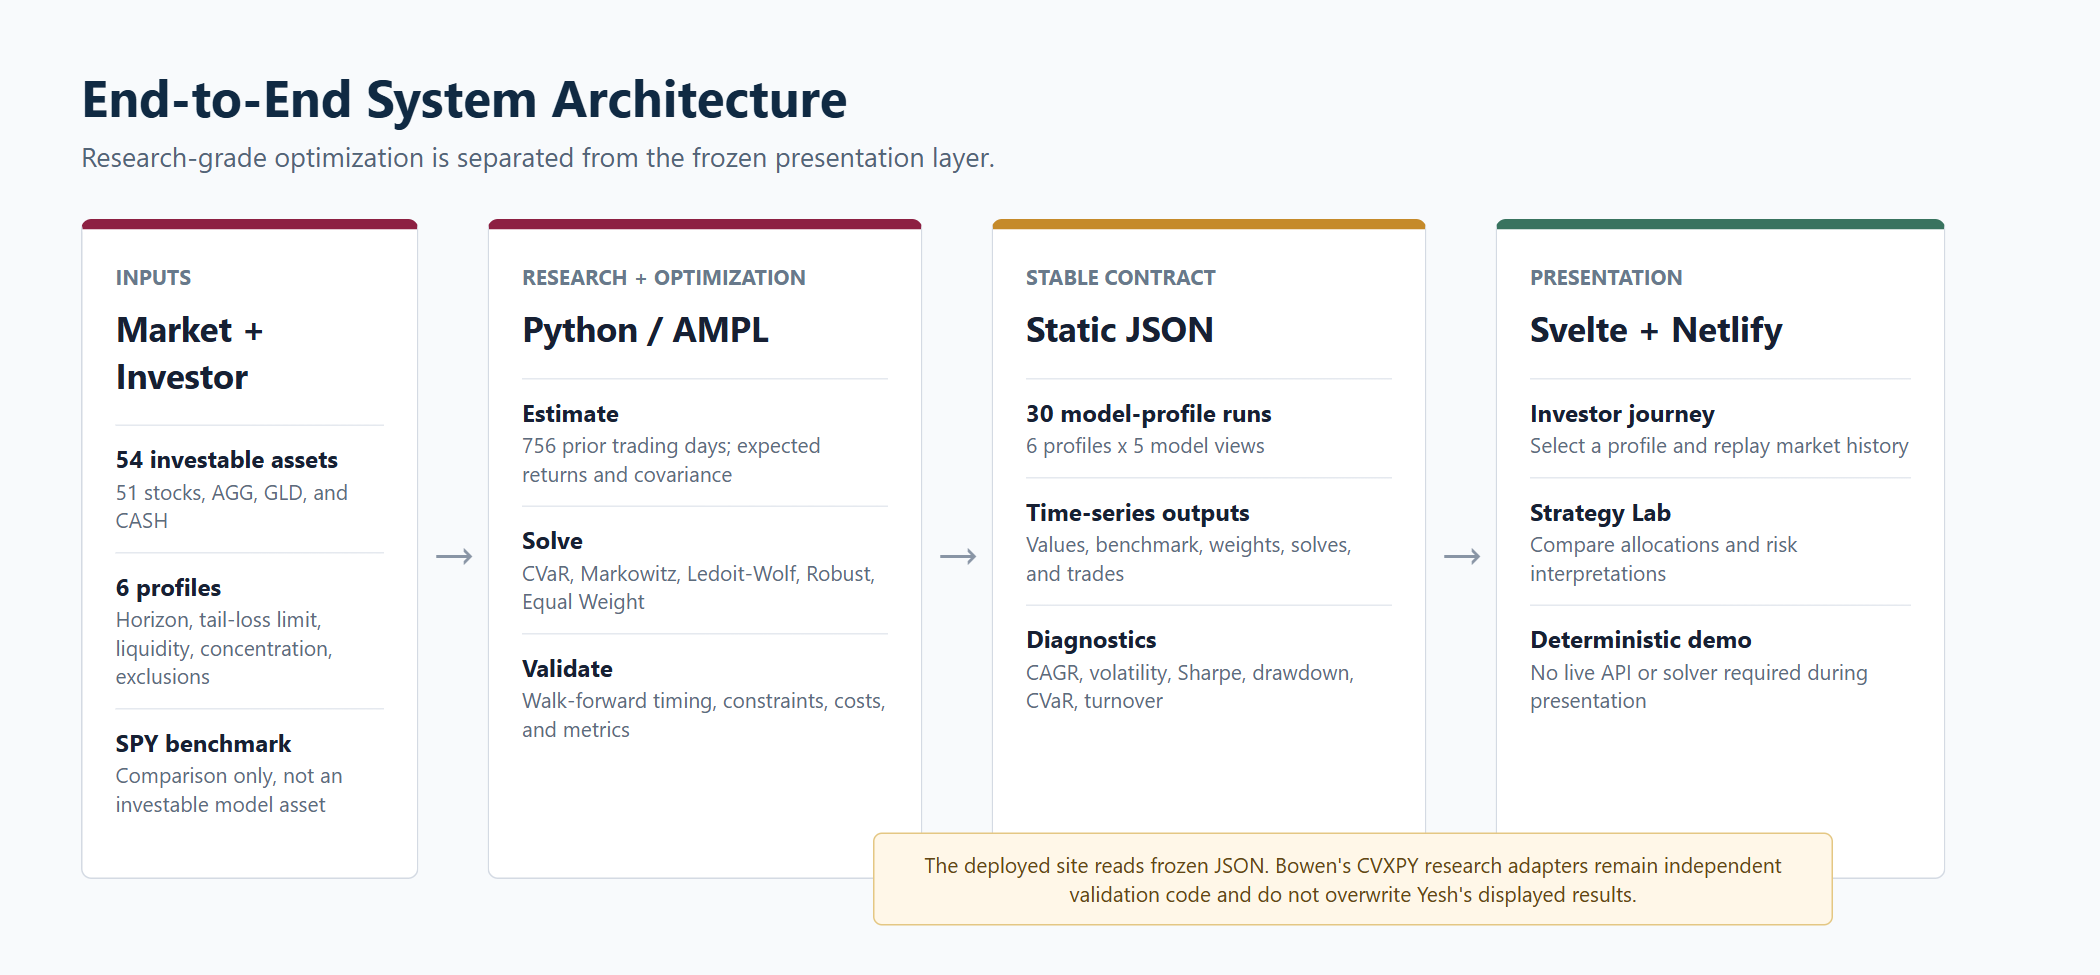
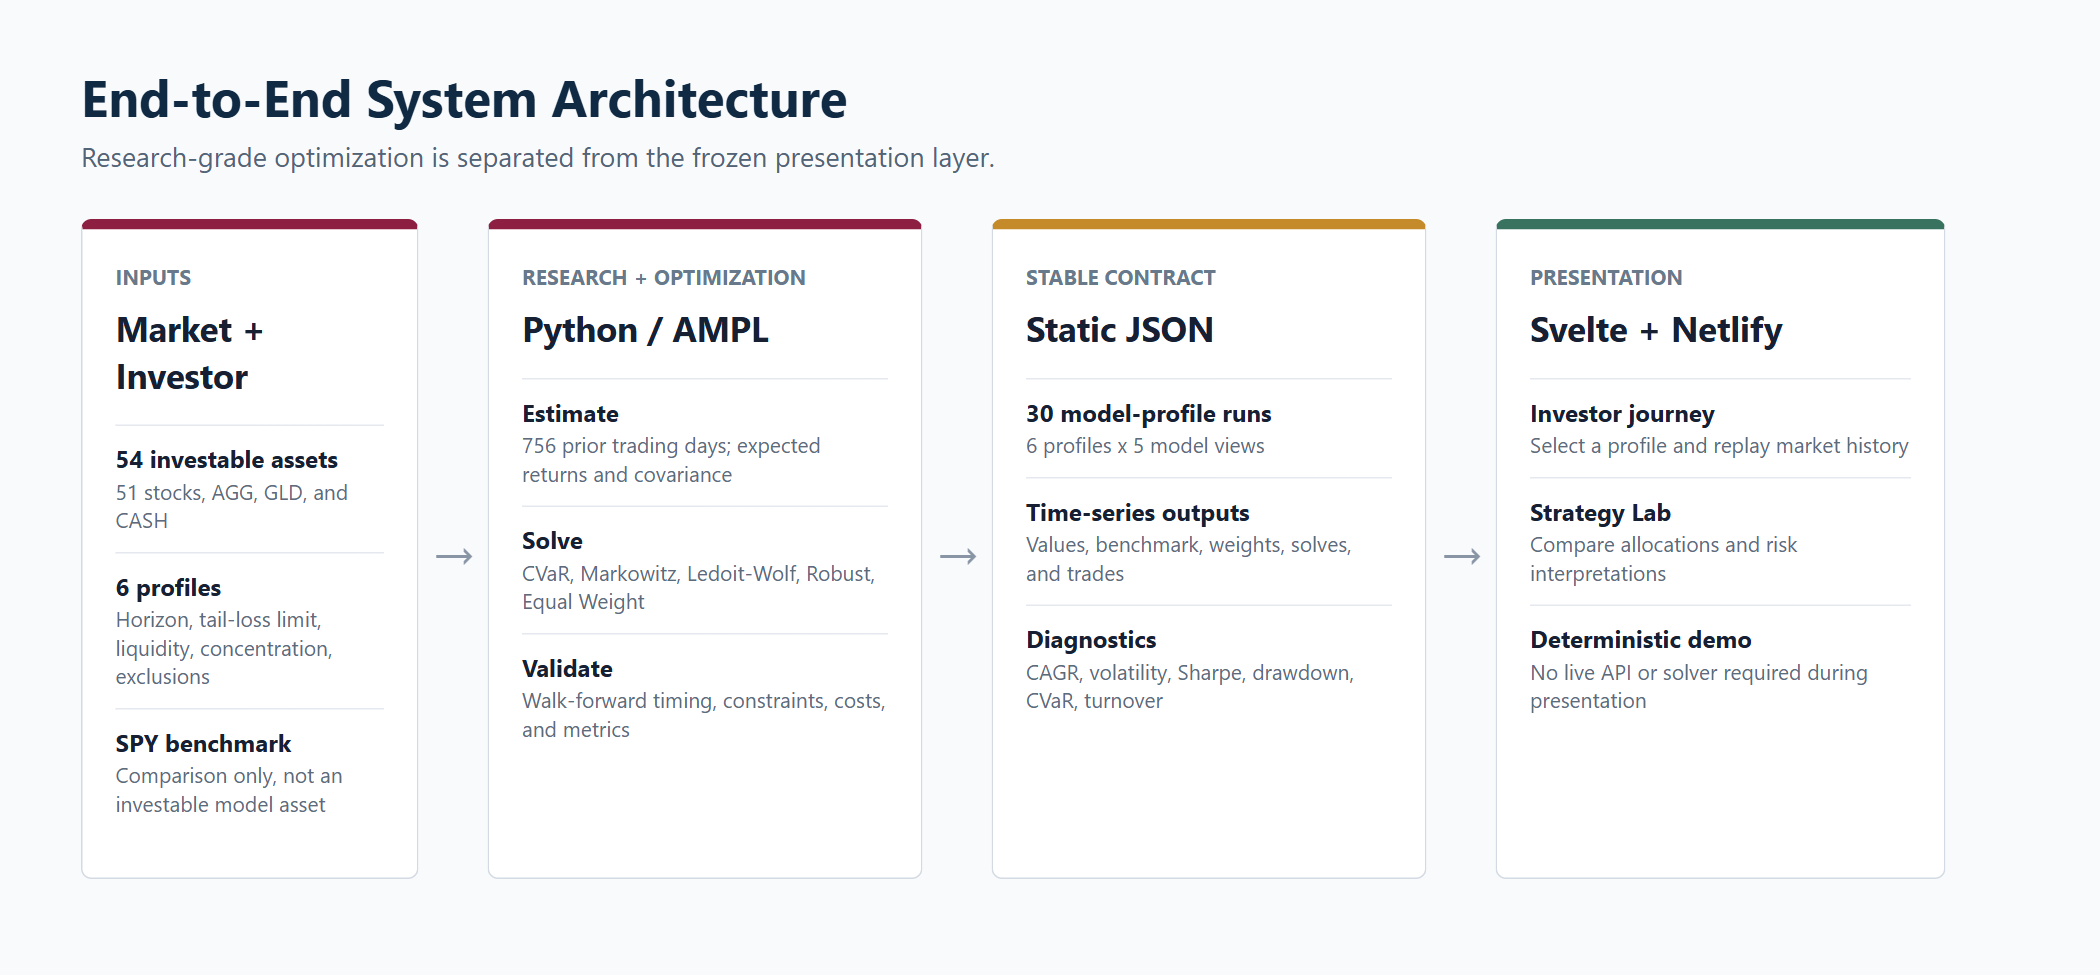
Polish public documentation and architecture figure

Changed region(s): [[0.4333, 0.8615, 0.8357, 0.9538]]

diff --git a/README.md b/README.md
@@ -24,9 +24,9 @@ optimization models so that the trade-offs are comparable.
 
 This repository contains two deliberately separated layers:
 
-- **Research layer (`implementation/`)**: Bowen's reusable Python backtester,
+- **Research layer (`implementation/`)**: a reusable Python backtester,
   CVXPY model adapters, profile constraints, and tests.
-- **Presentation layer (`src/portfolio/`, `model/`, `site/`)**: Yesh's frozen
+- **Presentation layer (`src/portfolio/`, `model/`, `site/`)**: the frozen
   AMPL/Svelte pipeline and the static JSON used by the final Netlify demo.
 
 The presentation layer is the source of truth for the published figures. The
@@ -36,7 +36,7 @@ reproducible; they do not overwrite the website's precomputed results.
 ## Final Demo and Poster
 
 - Live demo: [adaptive-portfolio-optimization.netlify.app](https://adaptive-portfolio-optimization.netlify.app/)
-- Poster: [SharePoint link](https://ncku365-my.sharepoint.com/:p:/g/personal/m16137010_ncku_edu_tw/IQAQXAs6NEEJQI9FSPpfYWA3AXic066vsgwCOuby8XqODZ8?e=jG5WaV)
+- Poster: [latest poster link](https://onedrive.live.com/:p:/g/personal/e7e6b3611f1cd60f/IQCq2O_lLEVpQLTOgS6k5yW6AX_vNtkGP_2xM6_gNwsPBOc?rtime=CRUZVzED30g&redeem=aHR0cHM6Ly8xZHJ2Lm1zL3AvYy9lN2U2YjM2MTFmMWNkNjBmL0lRQ3EyT19sTEVWcFFMVE9nUzZrNXlXNkFYX3ZOdGtHUF8yeE02X2dOd3NQQk9j)
 
 The frozen website contains 54 assets (51 stocks, AGG, GLD, and CASH), SPY as
 the comparison benchmark, six investor profiles, five model views, and 30
@@ -80,7 +80,7 @@ The frozen presentation displays five model views:
 
 The research directory also contains independent CVXPY adapters in
 `implementation/models/`. In particular, `implementation/models/robust_mvo.py`
-is a research comparison model and is not substituted for Yesh's AMPL Robust
+is a research comparison model and is not substituted for the frozen AMPL Robust
 model in the website.
 
 ## Data and Experimental Design
@@ -113,7 +113,7 @@ Adaptive-Portfolio-Optimization/
 |-- docs/
 |   |-- assets/                README architecture and pipeline figures
 |   |-- final_architecture.md  Research/presentation boundary
-|   |-- research_backend.md    Bowen implementation guide
+|   |-- research_backend.md    Research implementation guide
 |   |-- presentation_guide.md  Five-person presentation order
 |   `-- reproducibility.md     Verification commands
 |-- implementation/            Independent Python research and validation
@@ -167,15 +167,15 @@ prices or call the research backend.
 
 The recommended order follows the poster and the live demo:
 
-1. **Research question - Mana**: why investor profiles create an OR decision
+1. Explain why investor profiles create an operations-research decision
    problem.
-2. **Models - Kenta**: one equation and intuition for each risk definition.
-3. **Methodology/backtest - Bowen**: the six-stage pipeline, asset-universe
-   definition, lookback, quarterly rebalance, and no leakage.
-4. **Results - Raymond**: Growth versus Balanced trade-offs in return, risk,
-   drawdown, and turnover; avoid naming a universal winner.
-5. **Live demo - Yeshwanth**: choose a profile and period, run the time
-   machine, and open Strategy Diagnostics.
+2. Introduce one equation and one intuition for each risk definition.
+3. Walk through the six-stage pipeline, asset universe, lookback, quarterly
+   rebalance, and no-look-ahead rule.
+4. Discuss Growth versus Balanced trade-offs in return, risk, drawdown, and
+   turnover without naming a universal winner.
+5. Use the live demo to choose a profile and period, replay the time machine,
+   and inspect Strategy Diagnostics.
 
 Close with:
 
@@ -190,9 +190,3 @@ survivorship and selection bias, and results depend on the chosen dates,
 solver settings, transaction-cost assumptions, and profile constraints. The
 poster draft may describe a 2016-2024 narration while the frozen website data
 ends in 2025; presenters should state the exact period shown in each figure.
-
-## Contributors
-
-Mana (research question), Kenta (model framing), Bowen (methodology and
-research implementation), Raymond (results), Jia Qi (model research), and
-Yeshwanth (presentation website and live demo).

diff --git a/docs/final_architecture.md b/docs/final_architecture.md
@@ -10,7 +10,7 @@ The repository intentionally contains two related but separate layers:
 Research layer: implementation/
   prices/returns -> validated windows -> model adapters -> metrics/tests
 
-Presentation layer: Yesh's frozen pipeline
+Presentation layer: frozen production pipeline
   data/processed + src/portfolio + model -> site/static/data/*.json
                                       -> site Svelte UI -> Netlify
 ```
@@ -18,12 +18,12 @@ Presentation layer: Yesh's frozen pipeline
 The presentation layer is the final source of truth for the live demo. Its
 five displayed models are CVaR, Markowitz, Markowitz + Ledoit-Wolf, robust
 mean-variance, and equal weight. Its six profiles and static JSON files are
-kept unchanged from Yesh's `yesh-updates` release.
+kept unchanged from the final presentation release.
 
 The research layer is included for transparency and reproducibility. It uses
 CVXPY adapters and a shared walk-forward backtester, but it is not wired into
 the live page. In particular, the research `implementation/models/robust_mvo.py`
-and Yesh's `model/robust.mod` are different implementations; they are not
+and the frozen `model/robust.mod` are different implementations; they are not
 combined or presented as identical results.
 
 ## Why keep the boundary?

diff --git a/docs/research_backend.md b/docs/research_backend.md
@@ -1,6 +1,6 @@
 # Research Backend
 
-The Bowen implementation is a model-independent validation framework. It
+The `implementation/` directory is a model-independent validation framework. It
 accepts adjusted-close prices or aligned simple returns, creates explicit
 walk-forward windows, fits a model on the training slice, and evaluates only
 the later test slice.
